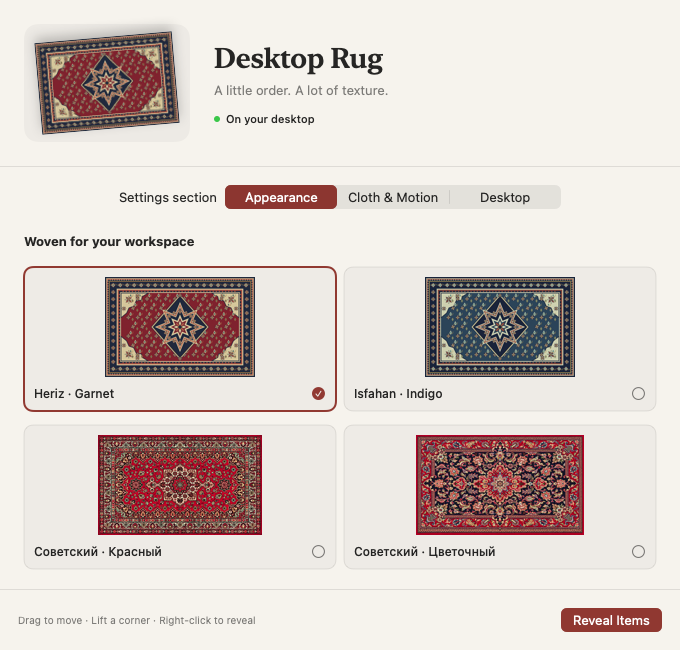
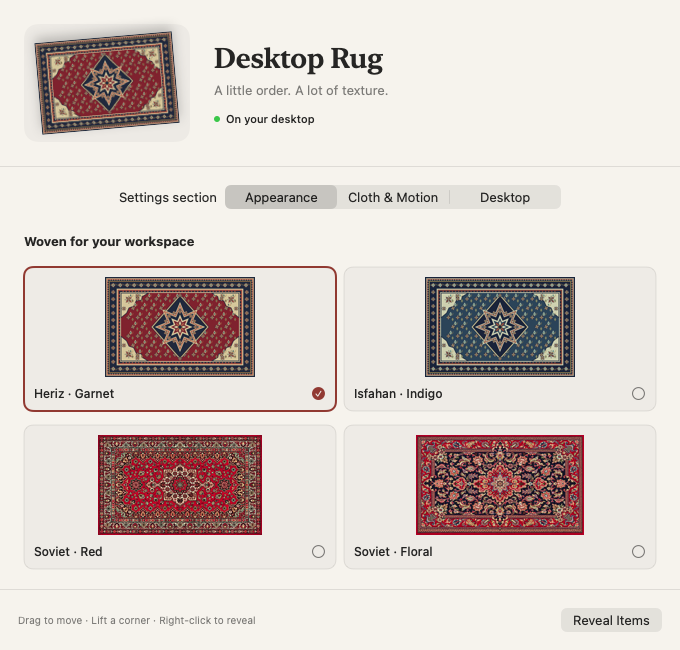
Add desktop demo and English rug names

diff --git a/DesktopRug/Core/RugConfiguration.swift b/DesktopRug/Core/RugConfiguration.swift
@@ -17,8 +17,8 @@ public enum RugTexture: String, Codable, CaseIterable, Sendable {
         switch self {
         case .heriz: return "Heriz · Garnet"
         case .indigo: return "Isfahan · Indigo"
-        case .sovietRed: return "Советский · Красный"
-        case .sovietFloral: return "Советский · Цветочный"
+        case .sovietRed: return "Soviet · Red"
+        case .sovietFloral: return "Soviet · Floral"
         }
     }
 }

diff --git a/README.ru.md b/README.ru.md
@@ -1,113 +1,3 @@
 # Desktop Rug
 
-Нативный ковёр для рабочего стола macOS с интерактивной физикой ткани и отрисовкой Metal. Поднимайте углы, складывайте ткань и накрывайте иконки Finder.
-
-[English](README.md) · [Скачать](https://github.com/ShabanovBoris/DesktopRug/releases/latest) · [Участие в разработке](CONTRIBUTING.md) · [Лицензия MIT](LICENSE)
-
-![Складка ткани, отрисованная приложением](docs/images/cloth-corner.png)
-
-## Возможности
-
-- Прозрачная панель над иконками Finder и ниже обычных окон.
-- XPBD: растяжение, сдвиг, изгиб, гравитация, трение, демпфирование и самоколлизии.
-- Metal: освещение, контактные тени, толщина кромки и геометрическая бахрома.
-- Четыре варианта: Heriz, Isfahan, «Советский · Красный» и «Советский · Цветочный».
-- Столкновения с иконками Finder или явно добавленными ручными объёмами.
-- Размеры, качество сетки, 30/60/120 FPS, блокировка, сохранение положения и автозапуск.
-- После оседания ткани физика и отрисовка приостанавливаются.
-
-Swift, AppKit, SwiftUI и Metal; внешних runtime-зависимостей нет.
-
-## Установка
-
-Скачайте ZIP из [GitHub Releases](https://github.com/ShabanovBoris/DesktopRug/releases/latest), распакуйте и перенесите **Desktop Rug.app** в Applications. После запуска ищите значок в строке меню: Dock-иконка отключена.
-
-Готовый первый релиз требует **macOS 14+ и Apple Silicon**. Архитектура указана в имени архива. Скрипт допускает сборку исходников на Intel, но проверенного Intel-билда в первом релизе нет.
-
-Билд подписан локально, **без Developer ID и нотариализации**. Если macOS блокирует первый запуск, после попытки открытия разрешите его через **System Settings → Privacy & Security → Open Anyway**, если доверяете этой загрузке. [Инструкция Apple](https://support.apple.com/guide/mac-help/open-a-mac-app-from-an-unknown-developer-mh40616/mac). Можно также собрать приложение самостоятельно.
-
-Проверка контрольной суммы в папке загрузки:
-
-```bash
-shasum -a 256 -c DesktopRug-v1.0.0-macOS-arm64.zip.sha256
-```
-
-## Управление
-
-| Действие | Результат |
-|---|---|
-| Перетаскивание середины | Перемещение всего ковра |
-| Перетаскивание угла | Подъём и складывание ткани |
-| Option + перетаскивание | Захват любой точки |
-| Shift + нажатие | Добавление ручного объёма |
-| Правый клик / Reveal Desktop Items | Скрытие ковра и доступ к файлам |
-| Lock Rug | Пропуск мыши через ковёр |
-| Relax Fabric | Разглаживание сетки над текущими объектами |
-| Reset Rug Position | Возврат в центр выбранного дисплея |
-
-В **Settings → Appearance** выберите рисунок. Вкладка **Cloth & Motion** управляет физикой, **Desktop** — дисплеем, Finder, ручными объёмами и автозапуском.
-
-![Все четыре рисунка в настройках](docs/images/appearance.png)
-
-## Finder и данные
-
-Нажмите **Connect Finder…** и разрешите Automation для Desktop Rug → Finder. Приложение читает имена, URL, размер и позиции desktop-иконок через публичный AppleScript-интерфейс. Оно не перемещает, не редактирует и не удаляет файлы. Accessibility и Screen Recording не требуются.
-
-Опрос выполняется раз в две секунды при видимом ковре. При ошибке останавливается с сообщением в настройках. Автоматическая геометрия поддержана на основном дисплее с обычным расположением иконок. Stacks, сортировка и дополнительные дисплеи могут возвращать недоступные или устаревшие позиции; доступны ручные объёмы.
-
-Телеметрии и сетевого клиента нет. [Сведения о локальных данных](docs/PRIVACY.md).
-
-## Сборка
-
-Нужны macOS, Apple Swift compiler с macOS SDK и Python 3.9+. Python-пакеты не требуются.
-
-```bash
-git clone https://github.com/ShabanovBoris/DesktopRug.git
-cd DesktopRug
-python3 scripts/build.py
-open "build/Desktop Rug.app"
-```
-
-Скрипт собирает оптимизированное приложение для архитектуры текущего Mac, включает текстуры, лицензию и применяет локальную подпись с Apple Events entitlement. При отсутствии готовой Metal-библиотеки включённый исходник компилируется системой при запуске.
-
-Альтернатива: откройте **DesktopRug.xcodeproj**, схему **DesktopRug**, и запустите Release. Для этого нужна полная установка Xcode с его компонентами.
-
-Версия хранится в `VERSION`. После её изменения или добавления исходников/ресурсов пересоздайте проект:
-
-```bash
-python3 scripts/generate_project.py
-```
-
-## Проверки и упаковка
-
-```bash
-bash scripts/test.sh
-python3 scripts/package_release.py
-```
-
-14 XCTest проверяют геометрию, столкновения, самоконтакт, захват, оседание, устойчивость, координаты и сохранение конфигурации. CI выполняет тесты, сборку и проверку архива. Скрипт упаковки требует предварительной сборки; проверяет версию, архитектуру, подпись, права исполняемого файла и содержимое после распаковки. Результат — ZIP и SHA-256 в `build/release/`.
-
-Нативные проверки требуют графической сессии. Сначала закройте обычное приложение:
-
-```bash
-"build/Desktop Rug.app/Contents/MacOS/DesktopRug" --validate "$PWD/build/validation" --deep-fold
-"build/Desktop Rug.app/Contents/MacOS/DesktopRug" --validate-ui "$PWD/build/ui-validation"
-```
-
-Они используют изолированные настройки и тестовую геометрию, сохраняют только собственные Metal-кадры и SwiftUI-представления. [Подробности проверок](docs/TESTING.md).
-
-## Ограничения
-
-Один ковёр на выбранном дисплее. Перенос между дисплеями выполняется через настройки. Полная проверка Spaces, Mission Control, Stage Manager и fullscreen не проведена. Изгиб и самоколлизии приближённые: при экстремальном смятии разделение слоёв не гарантировано. Ткань может сохранять складки; для разглаживания есть Relax Fabric.
-
-Толщина иконок моделируется, тени приближённые. Около 60 FPS измерены в коротком локальном прогоне; результат зависит от машины и качества сетки. Длительный тест утечек не завершён. Положение и настройки сохраняются, деформированная сетка при запуске рассчитывается заново.
-
-## Лицензия и графика
-
-[MIT](LICENSE). Heriz/Isfahan и иконка генерируются `Tools/GenerateRugAssets.swift`. Советские текстуры подготовлены imagegen по предоставленным фотографиям; [происхождение и запросы](DesktopRug/Resources/TextureSources.md) сохранены. Исходные фотографии не включены в репозиторий. Изображения документации содержат только собственный рендер и настройки приложения.
-
-```bash
-swift Tools/GenerateRugAssets.swift DesktopRug/Resources
-```
-
-Генератор не перезаписывает советские текстуры. Описание архитектуры находится в [английском README](README.md#architecture).
+The project documentation is now maintained in English. See the [README](README.md) for the demo video, installation, controls, build instructions, and limitations.

diff --git a/DesktopRug/Resources/TextureSources.md b/DesktopRug/Resources/TextureSources.md
@@ -1,19 +1,19 @@
-# Советские текстуры
+# Soviet rug textures
 
-Дата подготовки: 2026-10-11. Источник: две фотографии, приложенные пользователем к задаче. Текстуры подготовлены встроенным инструментом imagegen, режим precise-object-edit; это адаптации фотографий для ткани, а не историческая атрибуция производства ковров.
+Prepared on 2026-10-11 from two reference photographs supplied by the project owner. The textures were prepared with the built-in imagegen tool in precise-object-edit mode. They are adaptations for cloth rendering, not a historical attribution of the rugs' manufacturing origin.
 
-- [soviet-red.png](soviet-red.png) — «Советский · Красный»: красное поле, кремовый центральный медальон, плотный орнамент.
-- [soviet-floral.png](soviet-floral.png) — «Советский · Цветочный»: тёмно-синее поле, красный бордюр, цветочные ветви.
+- [soviet-red.png](soviet-red.png) — **Soviet · Red**: a red field, cream central medallion, and dense ornamentation.
+- [soviet-floral.png](soviet-floral.png) — **Soviet · Floral**: a dark navy field, red border, and floral vines.
 
-В обеих текстурах выровнены края и освещение, внешний фон и бахрома исключены. Бахрома и освещение добавляются существующим Metal-рендерером. PNG сохранены в проекте; повторная генерация может дать отличающийся рисунок. Генератор Tools/GenerateRugAssets.swift эти два файла не изменяет.
+Both textures have straightened edges and even lighting, with the external background and fringe removed. The Metal renderer adds fringe and lighting. The PNG files are included in the project; generating them again may produce different patterns. `Tools/GenerateRugAssets.swift` preserves these two files.
 
-## Запрос для красного ковра
+## Red rug prompt
 
 ```text
 Use case: precise-object-edit. Asset type: diffuse texture for a native macOS cloth rug. Input image 1 is the edit target, a red Soviet household carpet. Prepare this exact carpet as a clean, flat, rectangular top-down texture. Preserve its recognizable intricate central cream and black medallion, red field, green and cream small floral motifs, dense multiple ornamental borders, original colors and woven pile detail. Straighten only the outer rectangular edges and make the patterned carpet fill the entire landscape image edge to edge, approximately 1.63:1 width to height. Even neutral illumination, no directional shadow, no perspective, no folds, no room, no wall or floor, no external background, no added tassels or fringe, no text. Do not redesign or simplify the motifs. This bitmap will be deformed and lit by a cloth shader, so deliver only the flat full-bleed rug surface including all original ornamental borders.
 ```
 
-## Запрос для цветочного ковра
+## Floral rug prompt
 
 ```text
 Use case: precise-object-edit. Asset type: diffuse texture for a native macOS cloth rug. Input image 1 is the edit target, a Soviet household carpet with a very dark navy field and red floral borders. Prepare this exact carpet as a clean, flat, rectangular top-down texture. Preserve the detailed original composition: very dark navy central field, large red and cream central floral medallion, red side ornaments, winding cream, red, pale blue and olive floral vines, multiple thin patterned borders and broad red outer border. Preserve colors and realistic fine woven wool pile. Remove ONLY the white fringes on the left and right, straighten the edges, normalize uneven lighting. The rectangular rug surface including its original red outer binding must completely fill the landscape image, edge to edge, approximately 1.67:1 width to height. Even neutral illumination; no perspective, no directional shadows, no folds, no background, no wall or floor, no white strips, no tassels or fringe, no text. Do not redesign or simplify the original motifs. This full-bleed bitmap will be deformed and lit by the cloth shader.

diff --git a/README.md b/README.md
@@ -2,16 +2,16 @@
 
 A native macOS desktop rug with interactive cloth physics, woven patterns, and Metal rendering. Lift a corner, fold the fabric, or let it drape over your Finder icons.
 
-[Русский](README.ru.md) · [Download](https://github.com/ShabanovBoris/DesktopRug/releases/latest) · [Contributing](CONTRIBUTING.md) · [MIT license](LICENSE)
+[Download](https://github.com/ShabanovBoris/DesktopRug/releases/latest) · [Contributing](CONTRIBUTING.md) · [MIT license](LICENSE)
 
-![A lifted cloth corner rendered by Desktop Rug](docs/images/cloth-corner.png)
+https://github.com/user-attachments/assets/1a1f23eb-104f-4441-aa71-702475a0e4bb
 
 ## Features
 
 - A transparent desktop panel above Finder icons and below ordinary application windows.
 - XPBD cloth simulation with stretching, shear, bending, gravity, friction, damping, and self-collision.
 - Metal rendering with material UVs, lighting, contact shadows, edge thickness, and geometric fringe.
-- Four rugs: Heriz, Isfahan, Soviet Red, and Soviet Floral.
+- Four rugs: Heriz · Garnet, Isfahan · Indigo, Soviet · Red, and Soviet · Floral.
 - Optional Finder integration and manually placed collision mounds.
 - Menu bar controls, adjustable size and physics quality, 30/60/120 FPS, and Start at Login.
 - Saved settings and position. Physics and drawing pause when the fabric settles.
@@ -29,7 +29,7 @@ Release binaries are **ad-hoc signed and not notarized**. macOS may block the fi
 Each release includes a `.sha256` file. In the download directory, verify the archive with:
 
 ```bash
-shasum -a 256 -c DesktopRug-v1.0.0-macOS-arm64.zip.sha256
+shasum -a 256 -c DesktopRug-v1.0.1-macOS-arm64.zip.sha256
 ```
 
 ## Controls
@@ -46,8 +46,6 @@ shasum -a 256 -c DesktopRug-v1.0.0-macOS-arm64.zip.sha256
 | Reset Rug Position | Center the rug on its selected display |
 
 Open **Settings → Appearance** to choose a pattern. **Cloth & Motion** controls material and performance; **Desktop** controls the display, Finder connection, manual objects, and login item.
-
-![Appearance settings with all four rug patterns](docs/images/appearance.png)
 
 ## Finder and privacy
 
@@ -137,4 +135,4 @@ To regenerate procedural graphics:
 swift Tools/GenerateRugAssets.swift DesktopRug/Resources
 ```
 
-This command preserves the two Soviet textures. Documentation images show only the app's own rendered cloth and settings.
+This command preserves the two Soviet textures. The demo video shows the app running on a real macOS desktop with five sample files.

diff --git a/CHANGELOG.md b/CHANGELOG.md
@@ -1,5 +1,11 @@
 # Changelog
 
+## 1.0.1 — 2026-10-11
+
+- English names for all rug patterns and English asset documentation.
+- A recorded desktop demonstration embedded in the README in place of screenshots.
+- English documentation at the previous Russian README path.
+
 ## 1.0.0 — 2026-10-11
 
 Initial open-source release.
